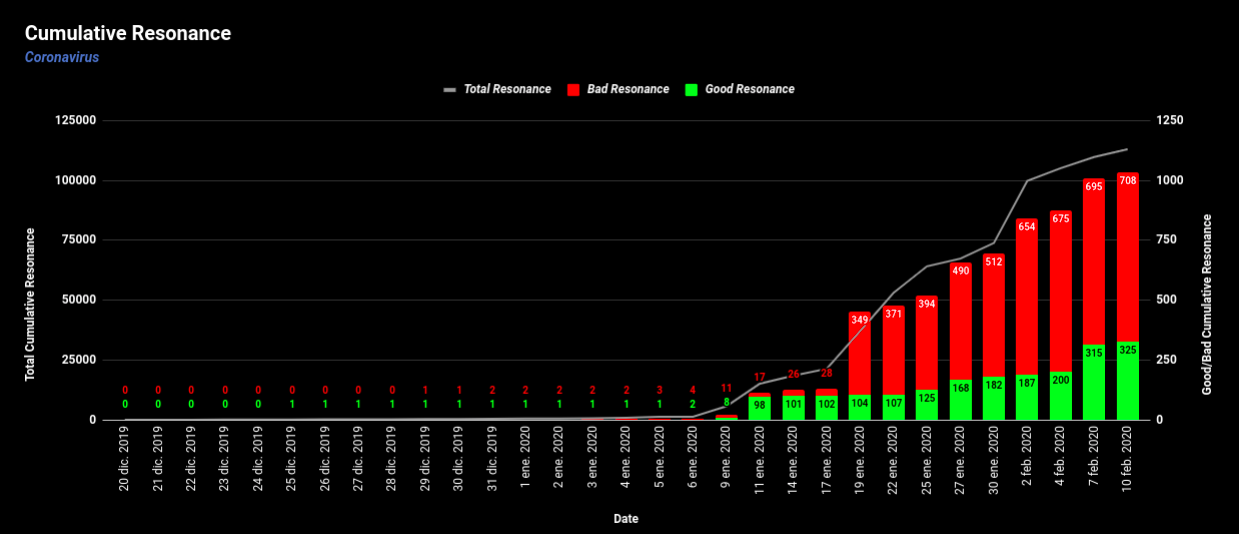
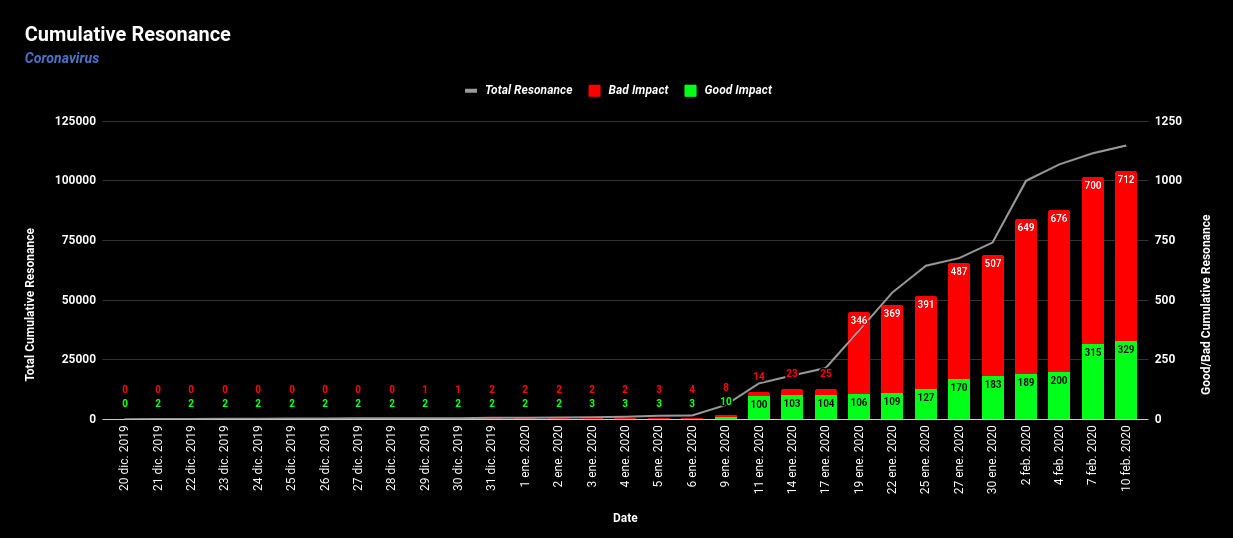
commited ncov - added hastags and prop

diff --git a/pages/topics/coronavirus_twitter/content.html b/pages/topics/coronavirus_twitter/content.html
@@ -35,7 +35,7 @@ body {
 	  color: blue;
 	}
 	.plot{
-		width:85%;
+		width:95%;
 		display: block;
 margin-left: auto;
 margin-right: auto;
@@ -56,7 +56,7 @@ margin-right: auto;
 	}
 
 	h3{
-		color:#bad2ff;
+		color:#0099ff;
 		font-size:18pt;
 	}
 
@@ -200,8 +200,14 @@ the Tweets sample, taking into account that a higher frequency implies greater r
 <img src="DataImages/wordCloud.png" class="plot" />
 </div>
 <p>	The illustration speaks for itself.</p>
+<h3>Hashtag Frequency</h3>
+<p>From the hashtgas used by people, those used in the least relevant tweets are discarded, likewise, only those that make any sense within the context of the coronavirus are preserved. It is expected
+	 that the most used hashtag is <b>#coronavirus</b>, but then the other hastags found within the sample are exposed:</p>
+
+<img src="DataImages/hashtags_coronavirus.png" class="plot" />
+
 <h3>Polarity</h3>
-<p>The polarity analysis is a score that shows the positive and negative impact of keywords within a sentence. The keyword analysis is pre-trained with movie reviews obtained from opinion forums to
+<p>The polarity analysis is a score that shows the positive and negative effects of keywords within a sentence. The keyword analysis is pre-trained with movie reviews obtained from opinion forums to
 	establish a relationship between common words in the expression of an opinion and the feeling generated. This allows you to classify the Tweets given the words they contain in order to determine a
 	feeling or polarity for each one. Depending on this polarity value, the tweet is classified as "Good" or "Bad" if it has a strong feeling inclined to either of these two polarities. If the feeling
 	 is not relevant, it is classified as "not interesting." Below is how the tweets behaved for a population of approximately 600 users per day who talked about the topic.</p>
@@ -218,5 +224,16 @@ the Tweets sample, taking into account that a higher frequency implies greater r
 </div>
 <p>take into account that from the action of 600 users a day a reach of almost 120 thousand individuals was achieved. "Coronavirus" is a concept that spreads from public opinion, knowing that this study was conducted without taking into account publications made
 	 by official news sources or any scientific source of information.</p>
+
+ <h3>Propagation and Resistance</h3>
+ <p>We are going to quantify the average number of people reached by tweet for each day. This amount is calculated by taking out the resonance rate achieved by tweets made on the same day, thus obtaining
+	  a number greater than or equal to one corresponding to the number of possible replicas achieved on average for each tweet made on the subject; This number is the spread index.</p>
+
+<p>Another number of interest is to quantify how many tweets are left behind given their low subjectivity and neutral polarity. Any Tweet of low impact is considered discarded by the social trend movement
+	and its rate with respect to the amount of daily tweets is called the resistance index. This number between zero and one expresses the proportion of tweets that have to be lost from one day to another
+	given their low interest rate. The following shows how these indices behave over time and a trend line associated with their behavior.</p>
+
+<img src="DataImages/propagation_coronavirus.png" class="plot" />
+
 </body>
 </html>
